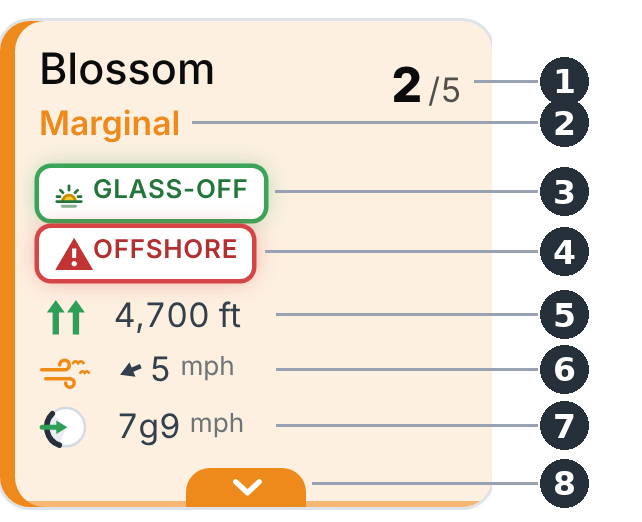
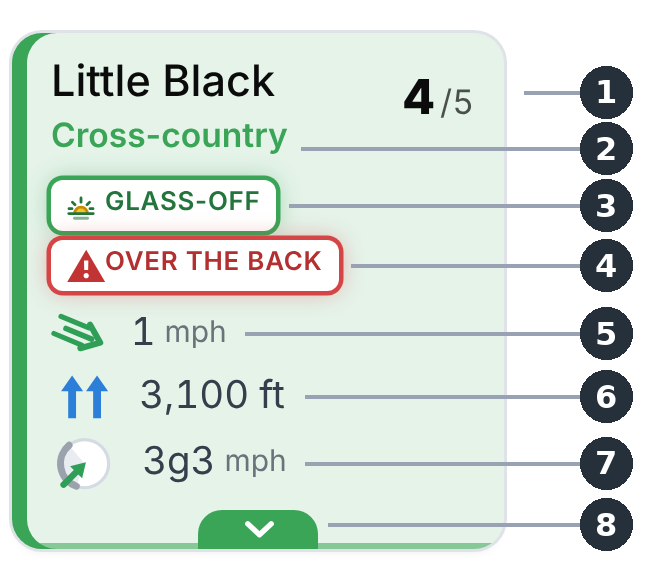
How page: tile picture with the new order and gusts
Claude-Session: https://claude.ai/code/session_01RhUhxHFBdny7cHvv8aMQgT

diff --git a/how.html b/how.html
@@ -138,8 +138,8 @@ figure.site.wide { grid-column: span 2; } figure.site.wide svg { overflow: hidde
 <table class="rules facts nums"><tr><th><span class="nb">1</span>Day</th><td>name and date, in the day's colour.</td></tr><tr><th><span class="nb">2</span>Verdict</th><td>the local thermal day: the best of Little Black, Blossom and Elsinore.<span class="exrow"><span class="exv" style="--dc:#d8402f">No-go</span><span class="exv" style="--dc:#ee8a1c">Marginal</span><span class="exv" style="--dc:#e0b21a">Site fly</span><span class="exv" style="--dc:#3aa457">XC</span><span class="exv" style="--dc:#2f7fcf">Great XC</span></span></td></tr><tr><th><span class="nb">3</span>Good signals</th><td><b>XC</b>, <b>glass-off</b>, <b>good height and climbs</b>.</td></tr><tr><th><span class="nb">4</span>Bad signals</th><td><b>low lid</b>, <b>windy</b>, <b>rain</b>, <b>high cloud</b>. A signal glows when it applies, dashed when only some models say so; tap it to see which sites.<span class="exrow"><span class="exgrp"><span class="exg good xc">XC</span><span class="exg good"><svg viewBox="0 0 16 16" fill="none" stroke="currentColor" stroke-width="1.5" stroke-linecap="round"><path d="M4.6 11.5 A3.4 3.4 0 0 1 11.4 11.5" fill="#f1c72b" stroke="#c98a00"/><path d="M1.5 11.5 H14.5"/><path d="M8 3.2 V5.4 M3.4 5.4 L4.8 6.8 M12.6 5.4 L11.2 6.8 M1.6 8.9 H3.2 M12.8 8.9 H14.4"/><path d="M4.5 14 H11.5" opacity=".55"/></svg></span><span class="exg good"><svg viewBox="0 0 16 16"><path d="M8 1.5 L13.5 7.5 H10 V14.5 H6 V7.5 H2.5 Z" fill="#3aa457"/></svg></span><span class="exgap"></span><span class="exg bad"><svg viewBox="0 0 16 16"><rect x="2" y="2" width="12" height="2.2" rx="1" fill="currentColor"/><path d="M8 6 L11.5 9.6 H9.4 V14.5 H6.6 V9.6 H4.5 Z" fill="#ee8a1c"/></svg></span><span class="exg bad"><svg viewBox="0 0 16 16" fill="none" stroke="currentColor" stroke-width="1.6" stroke-linecap="round"><path d="M1.5 5.5 H10 A2 2 0 1 0 8 3.5"/><path d="M1.5 8.5 H13 A2 2 0 1 1 11 10.5"/><path d="M1.5 11.5 H7"/></svg></span><span class="exg bad drop"><svg viewBox="0 0 12 16"><path d="M6 1 C6 1 1.2 7 1.2 10.2 A4.8 4.8 0 0 0 10.8 10.2 C10.8 7 6 1 6 1 Z" fill="currentColor"/></svg></span><span class="exg bad">☁</span><span class="exnote">lit up</span></span><span class="exgrp"><span class="exg off"><svg viewBox="0 0 16 16"><path d="M8 1.5 L13.5 7.5 H10 V14.5 H6 V7.5 H2.5 Z" fill="#3aa457"/></svg></span><span class="exg off"><svg viewBox="0 0 16 16" fill="none" stroke="currentColor" stroke-width="1.6" stroke-linecap="round"><path d="M1.5 5.5 H10 A2 2 0 1 0 8 3.5"/><path d="M1.5 8.5 H13 A2 2 0 1 1 11 10.5"/><path d="M1.5 11.5 H7"/></svg></span><span class="exnote">not this day</span></span><span class="exgrp"><span class="exg good dim xc2">XC</span><span class="exnote">some models</span></span></span> </td></tr><tr><th><span class="nb">5</span>Weather pattern</th><td>Santa Ana, front, pre-/post front, switch day, with how many models agree.<span class="exrow"><span class="expat bad">⇇ Santa Ana</span><span class="expat bad">≋ Front</span><span class="expat ">↗ Pre-frontal</span><span class="expat good">★ Post-frontal</span><span class="expat good">⇆ Switch day</span></span></td></tr><tr><th><span class="nb">6</span>Models</th><td>the models the day runs on, and the run time.</td></tr><tr><th><span class="nb">7</span>SD mountain</th><td>the three best San Diego mountain sites (always with Little Black or Blossom), in their score's colour; XC where it's an XC day.</td></tr><tr><th><span class="nb">8</span>Coastal &amp; trips</th><td>Torrey, and the best trip area when it's good.</td></tr><tr><th><span class="nb">9</span>Open</th><td>opens all sites as tiles. On a computer every day is open: the day on the left, the sites as tiles, Torrey on its own as the coast.</td></tr></table>
 
 <p><b>A site tile</b>, numbered:</p>
-<div class="tilefig"><img src="assets/how/tile.png" width="218" alt="A site tile with its parts numbered 1 to 8"></div>
-<table class="rules facts nums"><tr><th><span class="nb">1</span>Score</th><td>1 to 5 for the day at this site, built step by step (see How the score is made).</td></tr><tr><th><span class="nb">2</span>Verdict or type</th><td>No-go, Marginal, Site fly, XC or Great XC; or the type of flying: Thermal, Cross-country, Ridge soaring. In the score's colour.</td></tr><tr><th><span class="nb">3</span>Good news</th><td>a green pill: glass-off, convergence and the like. Tap it for what it means.</td></tr><tr><th><span class="nb">4</span>Warning</th><td>a red pill: offshore, crosswind, rain, windy… Tap it for what it means.</td></tr><tr><th><span class="nb">5</span>Top-of-lift wind</th><td>where you'd be flying, through the flying window: a streak arrow pointing where the wind blows, then the speed. The arrow takes the SkyGram's wind colours: <b class="c-g">green</b> up to 9 mph, <b class="c-y">yellow</b> 10–15, <b class="c-o">orange</b> 16–18, <b class="c-r">red</b> 19 and up (one step more when the gusts are much stronger). Over the back or offshore from 5 mph makes it one step worse, at least orange; lighter than that it doesn't matter.<span class="exrow"><span class="exi" style="color:#2f9e57"><svg class="exw" viewBox="0 0 20 14"><g fill="none" stroke="currentColor" stroke-width="1.3" stroke-linecap="round"><path d="M1 6.5 H9.5 a1.8 1.8 0 1 0 -1.8 -1.8"/><path d="M2.5 9.8 H11.5 a1.6 1.6 0 1 1 -1.6 1.6"/><path d="M12.6 4 q1 -1.3 2 0 q1 -1.3 2 0" stroke-width="1"/><path d="M15.4 7.6 q.8 -1 1.6 0 q.8 -1 1.6 0" stroke-width="1"/></g></svg><small>≤ 9 mph</small></span><span class="exi" style="color:#d4a90c"><svg class="exw" viewBox="0 0 20 14"><g fill="none" stroke="currentColor" stroke-width="1.3" stroke-linecap="round"><path d="M1 6.5 H9.5 a1.8 1.8 0 1 0 -1.8 -1.8"/><path d="M2.5 9.8 H11.5 a1.6 1.6 0 1 1 -1.6 1.6"/><path d="M12.6 4 q1 -1.3 2 0 q1 -1.3 2 0" stroke-width="1"/><path d="M15.4 7.6 q.8 -1 1.6 0 q.8 -1 1.6 0" stroke-width="1"/></g></svg><small>10–15</small></span><span class="exi" style="color:#ef8a17"><svg class="exw" viewBox="0 0 20 14"><g fill="none" stroke="currentColor" stroke-width="1.3" stroke-linecap="round"><path d="M1 6.5 H9.5 a1.8 1.8 0 1 0 -1.8 -1.8"/><path d="M2.5 9.8 H11.5 a1.6 1.6 0 1 1 -1.6 1.6"/><path d="M12.6 4 q1 -1.3 2 0 q1 -1.3 2 0" stroke-width="1"/><path d="M15.4 7.6 q.8 -1 1.6 0 q.8 -1 1.6 0" stroke-width="1"/></g></svg><small>16–18</small></span><span class="exi" style="color:#d64545"><svg class="exw" viewBox="0 0 20 14"><g fill="none" stroke="currentColor" stroke-width="1.3" stroke-linecap="round"><path d="M1 6.5 H9.5 a1.8 1.8 0 1 0 -1.8 -1.8"/><path d="M2.5 9.8 H11.5 a1.6 1.6 0 1 1 -1.6 1.6"/><path d="M12.6 4 q1 -1.3 2 0 q1 -1.3 2 0" stroke-width="1"/><path d="M15.4 7.6 q.8 -1 1.6 0 q.8 -1 1.6 0" stroke-width="1"/></g></svg><small>19+</small></span></span></td></tr><tr><th><span class="nb">6</span>Top of lift</th><td>the height in ft MSL. Arrows <b class="c-b">blue</b> with climbs of 2 m/s or more, at great XC height, or with 1.5 m/s at XC height; <b class="c-g">green</b> XC height with 1 m/s or more; <b class="c-y">yellow</b> local height with 0.5 m/s or more; <b class="c-o">orange</b> anything less.<span class="exrow" data-ex="lift"></span></td></tr><tr><th><span class="nb">7</span>Launch wind</th><td>a dial: the grey arc is the launch's direction window, the arrow comes in from where the wind blows. <b class="c-g">Green</b> more than 20° inside the window, <b class="c-y">yellow</b> its outer 20°, <b class="c-o">orange</b> up to 20° outside (crosswind), <b class="c-r">red</b> further out (from behind). Examples for Little Black (window SW to NW):<span class="exrow" data-ex="dial"></span></td></tr><tr><th><span class="nb">8</span>Open</th><td>tap the tile (or this tab) for the details below.</td></tr></table>
+<div class="tilefig"><img src="assets/how/tile.png?v=202611182050" width="228" alt="A site tile with its parts numbered 1 to 8"></div>
+<table class="rules facts nums"><tr><th><span class="nb">1</span>Score</th><td>1 to 5 for the day at this site, built step by step (see How the score is made).</td></tr><tr><th><span class="nb">2</span>Verdict or type</th><td>No-go, Marginal, Site fly, XC or Great XC; or the type of flying: Thermal, Cross-country, Ridge soaring. In the score's colour.</td></tr><tr><th><span class="nb">3</span>Good news</th><td>a green pill: glass-off, convergence and the like. Tap it for what it means.</td></tr><tr><th><span class="nb">4</span>Warning</th><td>a red pill: offshore, crosswind, rain, windy… Tap it for what it means.</td></tr><tr><th><span class="nb">5</span>Top-of-lift wind</th><td>where you'd be flying, through the flying window: a streak arrow pointing where the wind blows, then the speed. The arrow takes the SkyGram's wind colours: <b class="c-g">green</b> up to 9 mph, <b class="c-y">yellow</b> 10–15, <b class="c-o">orange</b> 16–18, <b class="c-r">red</b> 19 and up (one step more when the gusts are much stronger). Over the back or offshore from 5 mph makes it one step worse, at least orange; lighter than that it doesn't matter.<span class="exrow"><span class="exi" style="color:#2f9e57"><svg class="exw" viewBox="0 0 20 14"><g fill="none" stroke="currentColor" stroke-width="1.3" stroke-linecap="round"><path d="M1 6.5 H9.5 a1.8 1.8 0 1 0 -1.8 -1.8"/><path d="M2.5 9.8 H11.5 a1.6 1.6 0 1 1 -1.6 1.6"/><path d="M12.6 4 q1 -1.3 2 0 q1 -1.3 2 0" stroke-width="1"/><path d="M15.4 7.6 q.8 -1 1.6 0 q.8 -1 1.6 0" stroke-width="1"/></g></svg><small>≤ 9 mph</small></span><span class="exi" style="color:#d4a90c"><svg class="exw" viewBox="0 0 20 14"><g fill="none" stroke="currentColor" stroke-width="1.3" stroke-linecap="round"><path d="M1 6.5 H9.5 a1.8 1.8 0 1 0 -1.8 -1.8"/><path d="M2.5 9.8 H11.5 a1.6 1.6 0 1 1 -1.6 1.6"/><path d="M12.6 4 q1 -1.3 2 0 q1 -1.3 2 0" stroke-width="1"/><path d="M15.4 7.6 q.8 -1 1.6 0 q.8 -1 1.6 0" stroke-width="1"/></g></svg><small>10–15</small></span><span class="exi" style="color:#ef8a17"><svg class="exw" viewBox="0 0 20 14"><g fill="none" stroke="currentColor" stroke-width="1.3" stroke-linecap="round"><path d="M1 6.5 H9.5 a1.8 1.8 0 1 0 -1.8 -1.8"/><path d="M2.5 9.8 H11.5 a1.6 1.6 0 1 1 -1.6 1.6"/><path d="M12.6 4 q1 -1.3 2 0 q1 -1.3 2 0" stroke-width="1"/><path d="M15.4 7.6 q.8 -1 1.6 0 q.8 -1 1.6 0" stroke-width="1"/></g></svg><small>16–18</small></span><span class="exi" style="color:#d64545"><svg class="exw" viewBox="0 0 20 14"><g fill="none" stroke="currentColor" stroke-width="1.3" stroke-linecap="round"><path d="M1 6.5 H9.5 a1.8 1.8 0 1 0 -1.8 -1.8"/><path d="M2.5 9.8 H11.5 a1.6 1.6 0 1 1 -1.6 1.6"/><path d="M12.6 4 q1 -1.3 2 0 q1 -1.3 2 0" stroke-width="1"/><path d="M15.4 7.6 q.8 -1 1.6 0 q.8 -1 1.6 0" stroke-width="1"/></g></svg><small>19+</small></span></span></td></tr><tr><th><span class="nb">6</span>Top of lift</th><td>the height in ft MSL. Arrows <b class="c-b">blue</b> with climbs of 2 m/s or more, at great XC height, or with 1.5 m/s at XC height; <b class="c-g">green</b> XC height with 1 m/s or more; <b class="c-y">yellow</b> local height with 0.5 m/s or more; <b class="c-o">orange</b> anything less.<span class="exrow" data-ex="lift"></span></td></tr><tr><th><span class="nb">7</span>Launch wind</th><td>speed with gusts (3g3: no stronger gusts), and a dial: the grey arc is the launch's direction window, the arrow comes in from where the wind blows. <b class="c-g">Green</b> more than 20° inside the window, <b class="c-y">yellow</b> its outer 20°, <b class="c-o">orange</b> up to 20° outside (crosswind), <b class="c-r">red</b> further out (from behind). Examples for Little Black (window SW to NW):<span class="exrow" data-ex="dial"></span></td></tr><tr><th><span class="nb">8</span>Open</th><td>tap the tile (or this tab) for the details below.</td></tr></table>
 <p><b>The thermal chart.</b> Tap a tile for the thermals hour by hour around the site. The <b>SkyGram</b> switch under the chart picks one of two views; the choice stays on this device.</p>
 <p><b>The SkyGram</b> (switch on):</p>
 <div class="tilefig chartfig"><img src="assets/how/skygram.png" width="332" alt="The SkyGram for Laguna on a day with a front coming in"></div>
